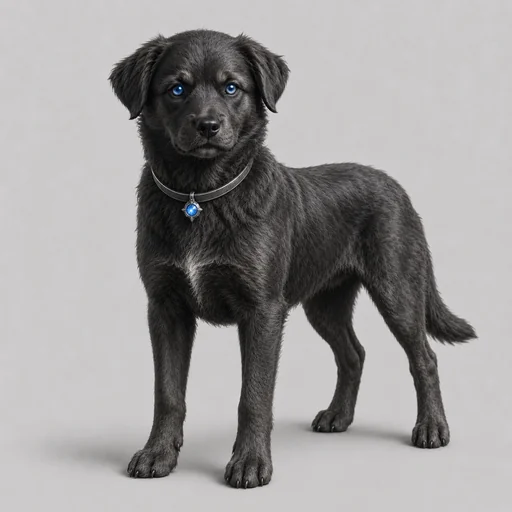
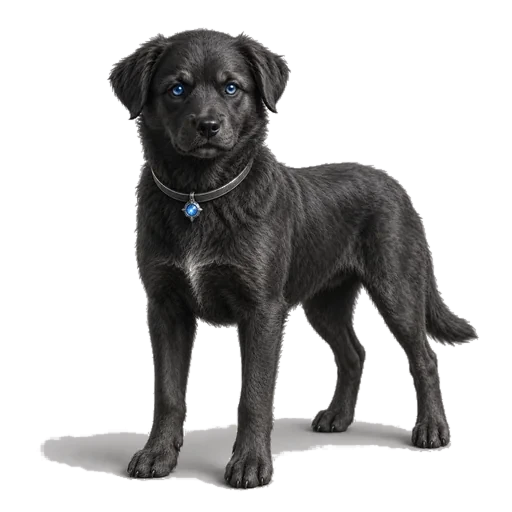
Show the character screen portrait as a large hero figure
Replaces the small circular portrait card on the Character screen
with a ~340px freestanding figure (~2.3x the old 150px), floating
over a glowing plateau instead of being cropped into a badge. Applies
to both painted art and the emoji fallback.

Also:
- Removed flat backgrounds from the dog art (color-distance cutout,
  feathered edges) so the figure reads as a standing cutout, plus a
  CSS radial-gradient mask on the art itself as a safety net that
  fades any remaining background residue into transparency regardless
  of how clean the pixel-level cutout is -- robust to imperfect
  automated cutouts on busy/high-contrast source art.
- Sized down the aura glow behind the hero figure; it was scaling
  with the container and had ballooned into a dominant colored oval.

diff --git a/index.html b/index.html
@@ -99,6 +99,18 @@
   .portrait-lg .portrait-art{border-width:5px;}
   .portrait-lg .portrait-hat{font-size:3rem;top:-16%;}
   .portrait-lg .portrait-companion{width:46px;height:46px;font-size:1.8rem;bottom:-4%;right:-6%;}
+  /* ---------- hero size: freestanding figure on a plateau, no circular crop ---------- */
+  .portrait-hero{overflow:visible;}
+  .portrait-hero .hero-plateau{position:absolute;left:50%;bottom:6%;transform:translateX(-50%);width:70%;height:14%;border-radius:50%;background:radial-gradient(ellipse at center, var(--frame-color,var(--accent)) 0%, color-mix(in srgb, var(--frame-color,var(--accent)) 45%, transparent) 45%, transparent 75%);opacity:.7;filter:blur(3px);z-index:0;animation:plateauPulse 3.4s ease-in-out infinite;}
+  .portrait-hero .portrait-aura{inset:8%;opacity:.3;filter:blur(10px);}
+  @keyframes plateauPulse{0%,100%{opacity:.6;transform:translateX(-50%) scale(1);}50%{opacity:.85;transform:translateX(-50%) scale(1.06);}}
+  .portrait-hero .portrait-avatar{background:none;border:none;box-shadow:none;font-size:13rem;position:relative;z-index:2;align-items:flex-end;padding-bottom:4%;}
+  .portrait-hero .portrait-art{border:none;border-radius:0;box-shadow:none;background:none;object-fit:contain;object-position:center bottom;position:relative;z-index:2;filter:drop-shadow(0 14px 10px rgba(0,0,0,.4));-webkit-mask-image:radial-gradient(ellipse 60% 58% at center 42%, black 58%, transparent 94%);mask-image:radial-gradient(ellipse 60% 58% at center 42%, black 58%, transparent 94%);}
+  .portrait-hero .portrait-hat{font-size:5.2rem;top:-10%;}
+  .portrait-hero .portrait-companion{width:76px;height:76px;font-size:2.4rem;bottom:2%;right:0%;border-width:3px;z-index:3;}
+  .portrait-hero .portrait-spark{font-size:2.6rem;}
+  .portrait-hero .portrait-wings{width:135%;height:115%;}
+  .portrait-hero .portrait-mecha-ring{inset:2%;}
   /* growth-stage accents (pup / grown / mecha) */
   .portrait-mecha-ring{position:absolute;inset:-12%;border-radius:50%;border:3px dashed var(--frame-color);z-index:1;animation:portraitSpin 7s linear infinite;}
   @keyframes portraitSpin{to{transform:rotate(360deg);}}
@@ -295,11 +307,11 @@
   .tut-tips li{margin-bottom:2px;}
 
   /* ---------- character / shop screen ---------- */
-  .char-hero{display:flex;gap:24px;align-items:flex-start;flex-wrap:wrap;margin:22px 0 8px;}
-  .char-card{display:flex;flex-direction:column;align-items:center;background:var(--surface);border:3px solid var(--border);border-radius:var(--radius-lg);padding:18px 20px 0;box-shadow:var(--key-shadow);}
-  .char-card-plate{margin:14px -20px 0;padding:7px 18px 9px;border-radius:0 0 16px 16px;font-family:var(--font-display);font-weight:800;font-size:.8rem;letter-spacing:.04em;text-transform:uppercase;text-align:center;color:#1a1d22;background:var(--border);}
-  .char-info{display:flex;flex-direction:column;gap:9px;padding-top:6px;}
-  .char-stats{display:flex;gap:20px;flex-wrap:wrap;}
+  .char-hero-stage{position:relative;max-width:420px;margin:26px auto 4px;padding-top:20px;}
+  .char-hero-stage .portrait-hero{width:100%;height:340px;margin:0 auto;}
+  .char-card-plate{position:relative;z-index:4;width:fit-content;margin:8px auto 0;padding:7px 18px 9px;border-radius:999px;font-family:var(--font-display);font-weight:800;font-size:.8rem;letter-spacing:.04em;text-transform:uppercase;text-align:center;color:#1a1d22;background:var(--border);box-shadow:var(--key-shadow);}
+  .char-info{display:flex;flex-direction:column;align-items:center;gap:9px;padding-top:10px;}
+  .char-stats{display:flex;gap:20px;flex-wrap:wrap;justify-content:center;}
   .char-stats div{display:flex;flex-direction:column;font-family:var(--font-mono);}
   .char-stats b{font-size:1.2rem;} .char-stats span{font-size:.65rem;text-transform:uppercase;letter-spacing:.07em;color:var(--ink-soft);}
   .char-weapon{font-size:.9rem;color:var(--ink-soft);}
@@ -441,19 +453,17 @@
       <div><span class="eyebrow">Character</span><h2 id="charTitle">Name</h2><div class="char-weapon" id="charEquippedTitle" style="display:none;"></div></div>
       <button class="btn ghost" id="btnCharBack">← Map</button>
     </div>
-    <div class="char-hero">
-      <div class="char-card" id="charCard">
-        <div class="portrait portrait-lg" id="charPortrait"></div>
-        <div class="char-card-plate" id="charRank">Rookie Typist</div>
+    <div class="char-hero-stage" id="charHeroStage">
+      <div class="portrait portrait-hero" id="charPortrait"></div>
+      <div class="char-card-plate" id="charRank">Rookie Typist</div>
+    </div>
+    <div class="char-info">
+      <div class="char-stats">
+        <div><b id="charWorlds">0/12</b><span>Worlds Cleared</span></div>
+        <div><b id="charStarsTotal">0</b><span>Stars</span></div>
+        <div><b id="charGold">0</b><span>🪙 Gold</span></div>
       </div>
-      <div class="char-info">
-        <div class="char-stats">
-          <div><b id="charWorlds">0/12</b><span>Worlds Cleared</span></div>
-          <div><b id="charStarsTotal">0</b><span>Stars</span></div>
-          <div><b id="charGold">0</b><span>🪙 Gold</span></div>
-        </div>
-        <div class="char-weapon">Weapon: <b id="charWeapon">👊 Bare Hands</b></div>
-      </div>
+      <div class="char-weapon">Weapon: <b id="charWeapon">👊 Bare Hands</b></div>
     </div>
     <div class="growth-panel" id="growthPanel">
       <div class="growth-head"><span id="growthStageTitle">Pup</span><span id="growthMeterText">0 / 40</span></div>
@@ -1128,10 +1138,12 @@ function renderPortrait(container,player,size){
   container.style.setProperty('--aura-b',aura.b);
   container.style.setProperty('--frame-color',rank.frame);
   container.style.setProperty('--elem-color',elemColor);
+  var plateauHtml = size==='hero' ? '<div class="hero-plateau"></div>' : '';
 
   if(art){
     container.innerHTML =
-      '<div class="portrait-aura'+(stage.ring==='boost'?' boost':'')+'"></div>'+
+      plateauHtml+
+      (size==='hero'?'':'<div class="portrait-aura'+(stage.ring==='boost'?' boost':'')+'"></div>')+
       '<img class="portrait-art" src="'+art+'" alt="'+escapeHtml(stage.title)+'" loading="lazy">'+
       (hat?'<div class="portrait-hat">'+hat.emoji+'</div>':'')+
       (comp?'<div class="portrait-companion">'+comp.emoji+'</div>':'');
@@ -1147,6 +1159,7 @@ function renderPortrait(container,player,size){
                 : '';
   var armorHtml = stage.ring==='mecha' ? buildArmorSVG(elemColor) : '';
   container.innerHTML =
+    plateauHtml+
     '<div class="portrait-aura'+(stage.ring==='boost'?' boost':'')+'"></div>'+
     ringsHtml+
     wingsHtml+
@@ -1398,13 +1411,12 @@ function renderCharacterScreen(){
   } else titleEl.style.display='none';
   el('charRank').textContent=rank.title;
   el('charRank').style.background=rank.frame;
-  el('charCard').style.borderColor=rank.frame;
   el('charWorlds').textContent=bossesCleared(p)+'/'+LEVELS.length;
   el('charStarsTotal').textContent=totalStars(p);
   el('charGold').textContent=p.gold||0;
   var w=equippedWeapon(p);
   el('charWeapon').textContent=w.emoji+' '+w.name;
-  renderPortrait(el('charPortrait'),p,'lg');
+  renderPortrait(el('charPortrait'),p,'hero');
 
   var stage=stageFor(p);
   var g=p.growth||0;
